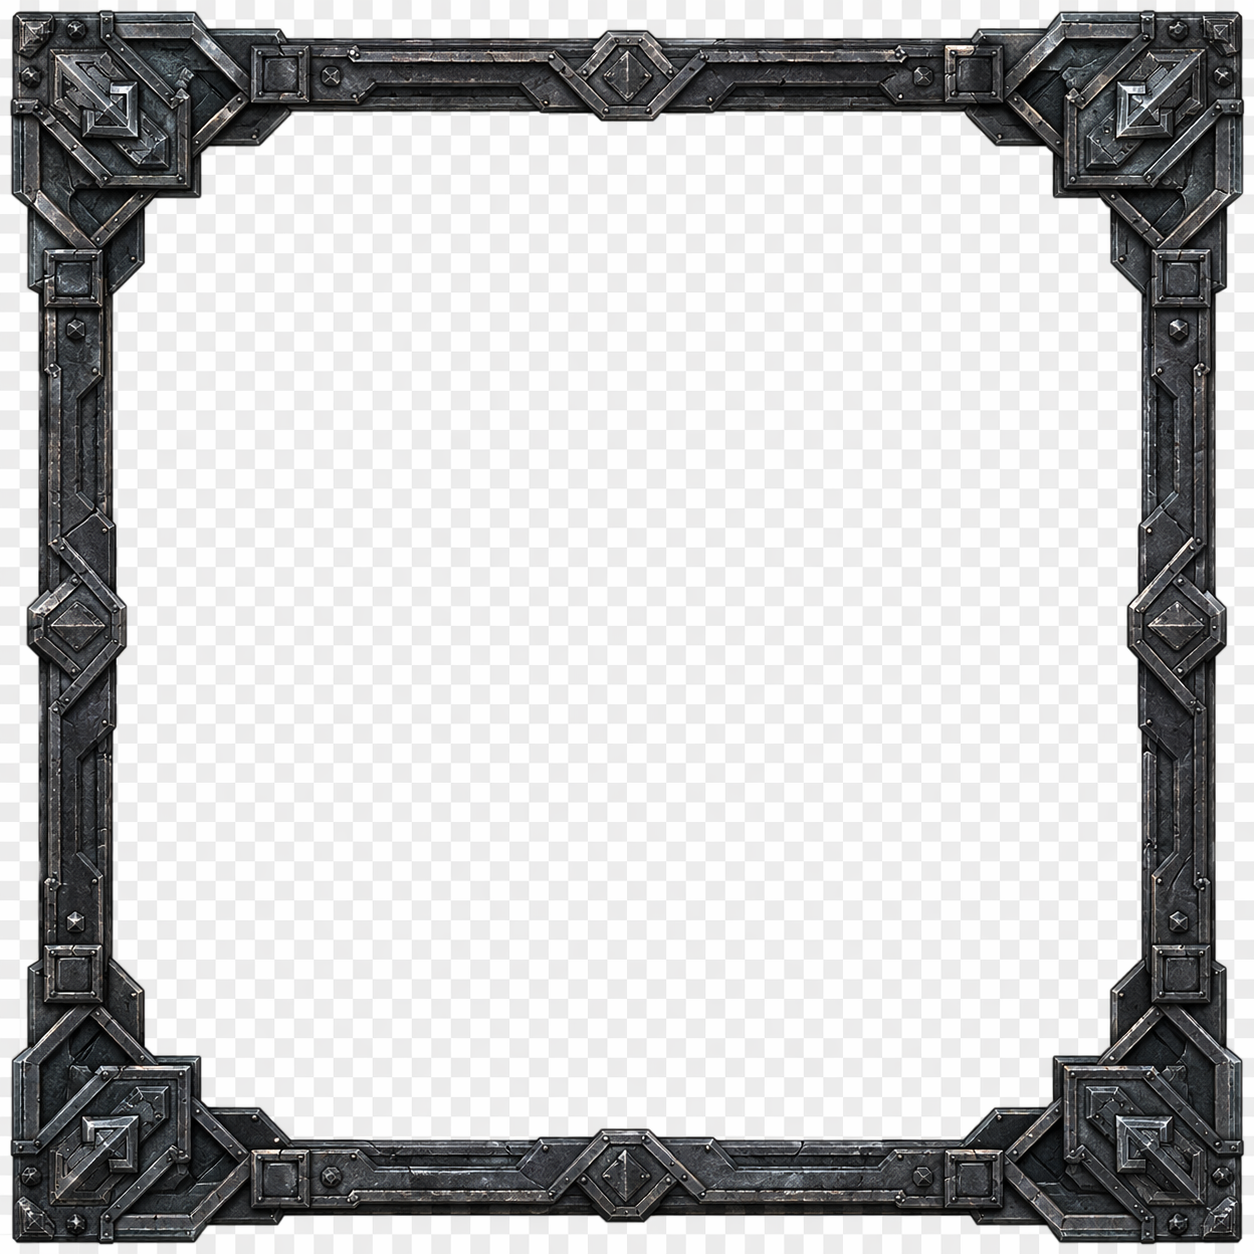
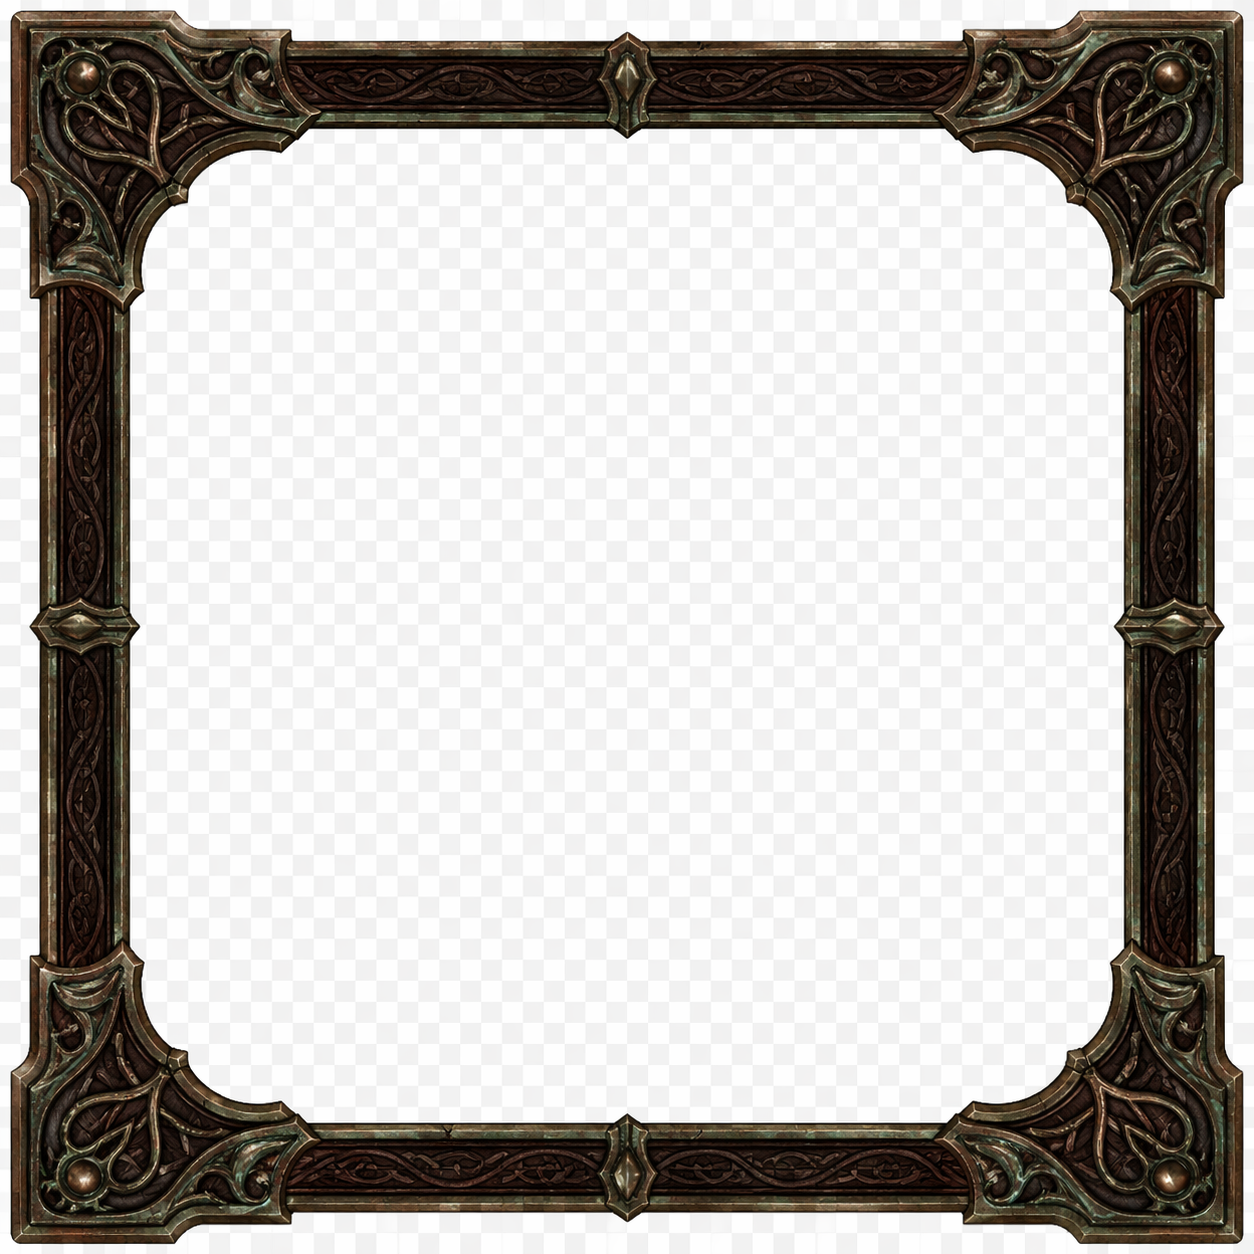
fix(theme): name each colour scheme after the game it looks like
All three schemes carried the wrong game's name, and had since the first
theme release: the one called Siege of Dragonspear gave the panel blue-teal
leather, the one called Baldur's Gate gave it red.

The three parchments are the games' own book covers, which is what settles
it -- BG1 is brown tooled leather with brass hinges, BG2 is blue-teal
leather in a gold frame, SoD is black and red:

  BG1 -> BFBOTBG  (warm parchment) + warm stone chrome
  BG2 -> BFBOTBG2 (blue-teal)      + cold steel chrome
  SoD -> BFBOTBG3 (red)            + red marble chrome

No shipped asset byte changes and a saved [BuffBot]Theme keeps working,
now rendering the game it names.

The default stays the warm parchment every install has shown since v1.0.
That art is BG1's, so _active follows it to bg1_light rather than leaving
the default on a name and quietly turning every existing panel blue-teal.
A player who never touched the radio sees the same panel under a changed
label; one who did keeps their choice and finally gets that game's colours.

The mapping now carries a comment saying where it comes from and, more
usefully, where it must not come from. I derived it twice from engine UI
resources -- the fullscreen menu backdrops, then GUIWLSP, the in-game side
panel -- and both run the opposite way to the covers, so both looked like
confirmation while being wrong. Verified in the lab panel instead.

Closes #102

Changed region(s): [[0.0, 0.0, 0.9952, 0.9952]]

diff --git a/tests/test_panel_chrome.py b/tests/test_panel_chrome.py
@@ -6,8 +6,8 @@ draw rather than naming one, that the helper falls back to the engine art when
 the themed art is absent, and that a tab's "I am the open one" frame is chosen
 by the art in use rather than hard-coded to either number.
 
-The art itself is four cycles — one per skin, 0 SoD / 1 IWD / 2 BG1 / 3 BG2 —
-with four state frames inside each.
+The art itself is four cycles — one per skin, 0 SoD / 1 IWD / 2 BG2 /
+3 BG1 — with four state frames inside each.
 """
 
 from __future__ import annotations
@@ -219,13 +219,87 @@ def test_each_helper_falls_back_to_the_running_games_own_button(
     assert lua.eval(f"BfBot.UI.{helper}()") == THEMED[helper]
 
 
-# The art's own order, read off the rendered BAMs: skin 0 is BG:EE's red
-# marble with gold filigree and a round socket, 1 is IWD's plain wood, 2 is
-# SoD's cold steel with a square socket, 3 is BG2's dark stone. A mapping
-# that drifts from it is not a style choice -- it dresses SoD's panel in
-# BG:EE's red and BG:EE's in SoD's steel, which is how this was first
-# shipped.
-CONTROL_SKINS = {"bg1": 0, "sod": 2, "bg2": 3}
+# The art's own order, rendered and measured: skin 0 is deep red marble with
+# gold filigree and a round socket, 1 is plain wood, 2 is cold grey steel with
+# a square socket, 3 is warm dark stone. Mean colour of each cycle's normal
+# frame in BFBPLAT: 0 = (28, 5, 4), 1 = (28, 16, 9), 2 = (36, 37, 35),
+# 3 = (62, 53, 39).
+#
+# Which accent wears which comes from the games' own box and title art, the
+# same source the three parchments were cut from: BG1 is brown tooled leather
+# with brass hinges, BG2 is blue-teal leather in a gold frame, SoD is red.
+#
+# Do NOT re-derive this from a UI resource. The in-game side panel GUIWLSP
+# runs the other way round -- BG:EE's is blue slate, BG2:EE's is tan -- and
+# reading the mapping off engine art shipped it wrong twice before v1.12.3
+# (#102). The games' identity is the contract; the sidebar is not.
+CONTROL_SKINS = {"sod": 0, "bg2": 2, "bg1": 3}
+
+# True where that skin's art is warm (red > blue above), false where it is
+# cold. The palette that selects a skin has to agree: a warm accent on the
+# grey plates, or a cold one on the red, is the swap this records.
+SKIN_IS_WARM = {0: True, 1: True, 2: False, 3: True}
+
+# The numbered background and border pages, by the look they carry. Measured
+# the same way, off assets/themes: the 991x pages and the FR2 atlas are the
+# blue-grey parchment (mean r-b -11), 992x and FR3 the red-brown one (+32).
+# The unnumbered pair is BG2's warm parchment.
+PARCHMENT_IS_WARM = {
+    ("BFBOTBG", "BFBOTFR"): True,
+    ("BFBOTBG2", "BFBOTFR2"): False,
+    ("BFBOTBG3", "BFBOTFR3"): True,
+}
+
+
+def _palettes() -> dict[str, dict[str, str]]:
+    """Every palette in BfBotThm's table, as flat key -> value strings."""
+    out: dict[str, dict[str, str]] = {}
+    for name, body in re.findall(
+        r"^    (\w+) = \{\n(.*?)^    \},$", THEME_SOURCE, re.S | re.M
+    ):
+        # A value is either a quoted string -- "{R, G, B}" carries commas of
+        # its own, so it cannot be read up to the first one -- or a bare
+        # number.
+        out[name] = {
+            key: quoted or bare
+            for key, quoted, bare in re.findall(
+                r'^\s*(\w+)\s*=\s*(?:"([^"]*)"|([^\s,]+))\s*,', body, re.M
+            )
+        }
+    return out
+
+
+def _warmth(palette: dict[str, str], key: str) -> int:
+    """red minus blue for one "{R, G, B}" entry."""
+    r, _g, b = (
+        int(part) for part in re.findall(r"\d+", palette[key])
+    )
+    return r - b
+
+
+def test_every_accent_wears_its_own_game_s_colours() -> None:
+    """The three things that make up an accent -- its text colours, the
+    parchment and border it names, and the chrome skin it selects -- all have
+    to carry the same temperature. Flipping any one of them alone is what
+    dressed BG:EE in SoD's red for six releases (#102)."""
+    palettes = _palettes()
+    assert set(palettes) == {
+        f"{accent}_{mode}"
+        for accent in CONTROL_SKINS
+        for mode in ("light", "dark")
+    }, sorted(palettes)
+
+    for accent, skin in CONTROL_SKINS.items():
+        warm = SKIN_IS_WARM[skin]
+        for mode in ("light", "dark"):
+            palette = palettes[f"{accent}_{mode}"]
+            pages = (palette["bgResref"], palette["borderResref"])
+            assert PARCHMENT_IS_WARM[pages] is warm, (accent, mode, pages)
+            # title and grip are the two the panel shows largest; a cold
+            # accent must not tint them warm, nor a warm one cold.
+            for key in ("title", "grip", "headerSub"):
+                hot = _warmth(palette, key) > 0
+                assert hot is warm, (accent, mode, key, palette[key])
 
 
 def test_the_skin_index_follows_the_art_and_every_mapped_skin_ships() -> None:

diff --git a/tools/png_to_pvrz.py b/tools/png_to_pvrz.py
@@ -23,7 +23,7 @@ PVRZ wire format:
 Usage:
     # Convenience modes — emit all theme PVRZs into buffbot/
     python tools/png_to_pvrz.py --theme sod
-    python tools/png_to_pvrz.py --theme bg1
+    python tools/png_to_pvrz.py --theme bg2
 
     # Single-file mode — resize to --width/--height (must be multiples of 4),
     # default 512x512.
@@ -31,9 +31,9 @@ Usage:
         [--width N] [--height N]
 
 Produces (theme modes):
-    SOD:  buffbot/MOS9910.PVRZ .. MOS9913.PVRZ (background slices)
+    BG2:  buffbot/MOS9910.PVRZ .. MOS9913.PVRZ (background slices)
           buffbot/BFBOTFR2.PVRZ                (512x512 9-slice border)
-    BG1:  buffbot/MOS9920.PVRZ .. MOS9923.PVRZ
+    SOD:  buffbot/MOS9920.PVRZ .. MOS9923.PVRZ
           buffbot/BFBOTFR3.PVRZ
 
 The DXT5 compressor here is the same pure-Python implementation used by
@@ -389,17 +389,23 @@ _SCRIPT_DIR = Path(__file__).resolve().parent
 _PROJECT_ROOT = _SCRIPT_DIR.parent
 
 
+# The numbered resrefs are historical and the accent names on them were wrong
+# until v1.12.3 (#102). The leather textures match the games' box art: brown
+# with brass hinges is BG1 -- that is the unnumbered BFBOTBG set, built by
+# gen_parchment_mos.py -- blue-teal with a gold frame is BG2, red is SoD. The
+# numbers stay put and the sources moved under them, so a rebuild stays
+# byte-identical to the release.
 THEMES = {
     # name -> {bg_src, border_src, mos_base (first number), border_out}
-    "sod": {
-        "bg_src": "assets/themes/sod_background.png",
-        "border_src": "assets/themes/sod_border.png",
+    "bg2": {
+        "bg_src": "assets/themes/bg2_background.png",
+        "border_src": "assets/themes/bg2_border.png",
         "mos_base": 9910,                    # MOS9910..MOS9913
         "border_out": "buffbot/BFBOTFR2.PVRZ",
     },
-    "bg1": {
-        "bg_src": "assets/themes/bg1_background.png",
-        "border_src": "assets/themes/bg1_border.png",
+    "sod": {
+        "bg_src": "assets/themes/sod_background.png",
+        "border_src": "assets/themes/sod_border.png",
         "mos_base": 9920,                    # MOS9920..MOS9923
         "border_out": "buffbot/BFBOTFR3.PVRZ",
     },

diff --git a/tools/build_frame_atlas.py b/tools/build_frame_atlas.py
@@ -4,7 +4,7 @@
     python -I tools/build_frame_atlas.py              # write all three
     python -I tools/build_frame_atlas.py --preview out/   # also dump PNGs
 
-One atlas per accent (`BFBOTFR` BG2, `BFBOTFR2` SoD, `BFBOTFR3` BG:EE), each
+One atlas per accent (`BFBOTFR` BG1, `BFBOTFR2` BG2, `BFBOTFR3` SoD), each
 256x128 and laid out the way `BfBot.UI` registers it:
 
     +--------+------------+--------+
@@ -16,8 +16,11 @@ One atlas per accent (`BFBOTFR` BG2, `BFBOTFR2` SoD, `BFBOTFR3` BG:EE), each
     +--------+------------+--------+
 
 Two things here are read off the art rather than assumed, because assuming
-them is what shipped a panel with its bottom corners facing outward and SoD
-wearing BG:EE's wine-red wedge:
+them is what shipped a panel with its bottom corners facing outward. The
+accent names above come from the games' own box and title art, which is what
+the parchments were cut from -- BG1 brown leather, BG2 blue-teal, SoD red.
+Do not re-derive them from a UI resource; that shipped them wrong twice
+(#102).
 
 * **The cycle is the skin**, in the same order every BuffBot BAM uses it --
   0 BG:EE, 1 IWD, 2 SoD, 3 BG2. BuffBot has no IWD accent.
@@ -48,9 +51,9 @@ VISUAL = ROOT / "buffbot" / "visual"
 
 # accent -> (atlas resref, skin cycle)
 ATLASES = {
-    "bg2": ("BFBOTFR", 3),
-    "sod": ("BFBOTFR2", 2),
-    "bg1": ("BFBOTFR3", 0),
+    "bg1": ("BFBOTFR", 3),
+    "bg2": ("BFBOTFR2", 2),
+    "sod": ("BFBOTFR3", 0),
 }
 
 ATLAS_W, ATLAS_H = 256, 128

diff --git a/tests/test_eeex_options.py b/tests/test_eeex_options.py
@@ -123,9 +123,11 @@ def test_inventory_item_mode_radio_stages_selection_and_persists_both_choices(op
     [
         # Skin indices are the art's own order; see the mapping test in
         # tests/test_panel_chrome.py.
-        ("bg2_light", 3), ("bg2_dark", 3),
-        ("sod_light", 2), ("sod_dark", 2),
-        ("bg1_light", 0), ("bg1_dark", 0),
+        ("bg1_light", 3), ("bg1_dark", 3),
+        # From the games' own box art: BG1 brown leather, BG2 blue-teal,
+        # SoD red (#102). tests/test_panel_chrome.py pins it to the palettes.
+        ("sod_light", 0), ("sod_dark", 0),
+        ("bg2_light", 2), ("bg2_dark", 2),
     ],
 )
 def test_control_skin_follows_the_accent_and_ignores_dark_mode(
@@ -253,10 +255,10 @@ def test_theme_colors_reach_the_engine_as_packed_numbers(options_lua):
     # style's default and all six palettes rendered the same near-black text.
     facts = options_lua.execute(
         """
-        BfBot.Theme._active = BfBot.Theme._palettes["bg2_light"]
+        BfBot.Theme._active = BfBot.Theme._palettes["bg1_light"]
         local title = BfBot.UI._T("title")
         local raw = BfBot.UI._TRaw("title")
-        BfBot.Theme._active = BfBot.Theme._palettes["bg1_dark"]
+        BfBot.Theme._active = BfBot.Theme._palettes["bg2_dark"]
         return {
             titleType = type(title),
             title = title,

diff --git a/CHANGELOG.md b/CHANGELOG.md
@@ -1,5 +1,38 @@
 # Changelog
 
+## Unreleased
+
+### Fixed
+- **Every colour scheme carried the wrong game's name** (#102). Reported from
+  a live playthrough: the scheme called Siege of Dragonspear gave the panel
+  blue-teal leather, and the one called Baldur's Gate gave it red. All three
+  names were on the wrong art, and had been since the first theme release.
+
+  The three parchments are the games' own book covers, which is how the
+  mapping is settled: BG1 is brown tooled leather with brass hinges, BG2 is
+  blue-teal leather in a gold frame, SoD is black and red. So BG1 takes the
+  warm parchment the panel has always worn by default, BG2 the blue-teal set
+  (`BFBOTBG2`/`BFBOTFR2`), SoD the red one (`BFBOTBG3`/`BFBOTFR3`), each with
+  the matching chrome skin — warm stone, cold steel, red marble.
+
+  No shipped asset byte changes and a saved `[BuffBot]Theme` keeps working;
+  it now renders the game it names. The default still opens on the warm
+  parchment every install has shown since v1.0 — that art is BG1's, so the
+  default moved with it rather than turning every existing panel blue-teal.
+
+  **What a player sees:** the look stays, the name under it changes. If you
+  never touched the Color Scheme radio, your panel is the same parchment it
+  always was, but the radio now reads Baldur's Gate where it read Baldur's
+  Gate II. Nothing moved; the label you never picked did. If you *had* picked
+  a scheme, it keeps your choice and finally shows that game's colours.
+
+  The old names had been copied into six places, so each accent's text
+  colours, parchment pages and chrome skin are now pinned together and a
+  comment at the mapping says where the names come from. They do **not** come
+  from the engine's UI art: the in-game side panel `GUIWLSP` runs the other
+  way round (BG:EE's is blue slate, BG2:EE's is tan), and deriving the mapping
+  from engine resources is what got it wrong twice.
+
 ## v1.12.3 (2026-10-29) — a friendly mage is not a summon
 
 One detection defect, reported from a live BG2 game: the Summons view handed
